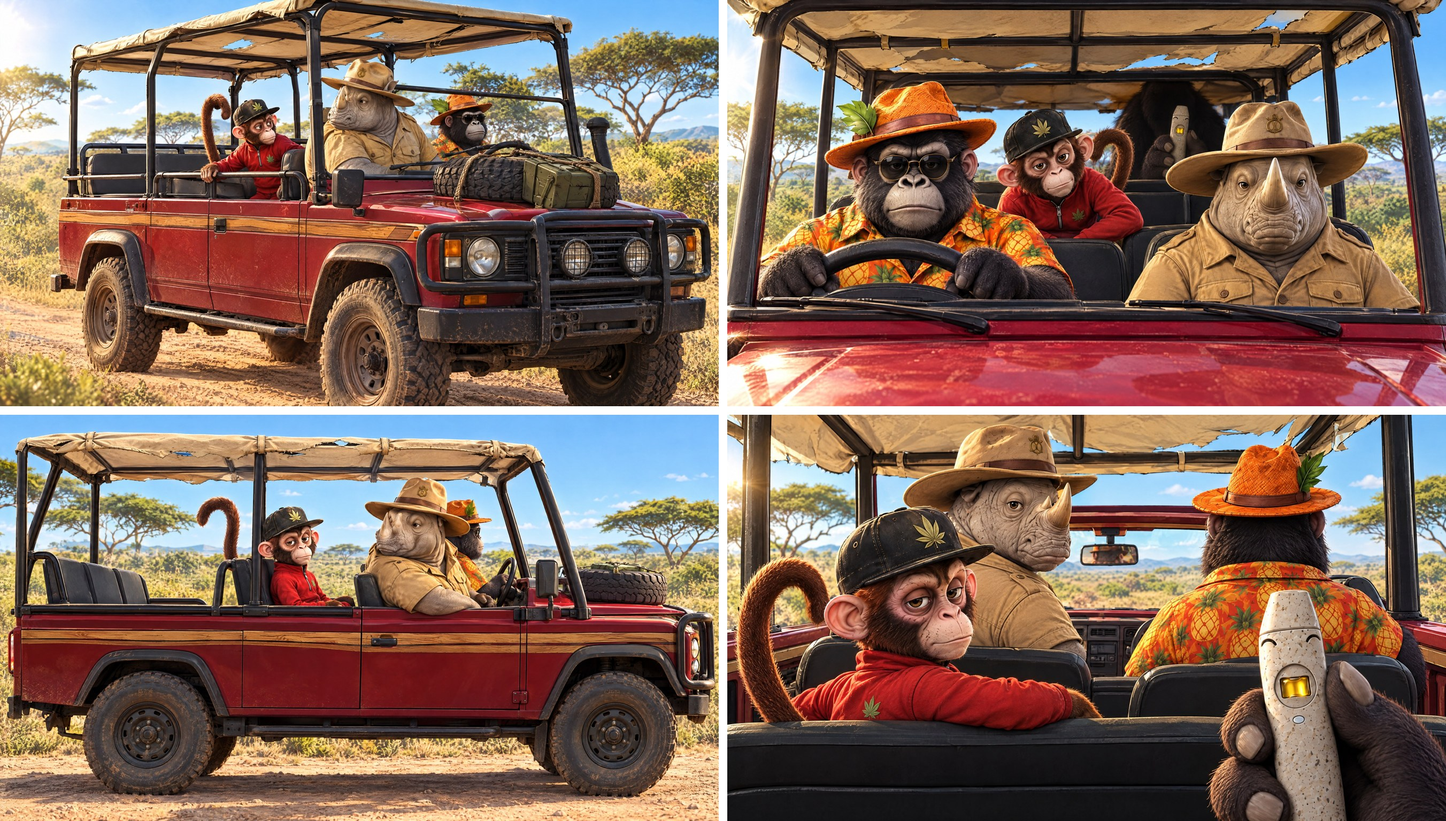
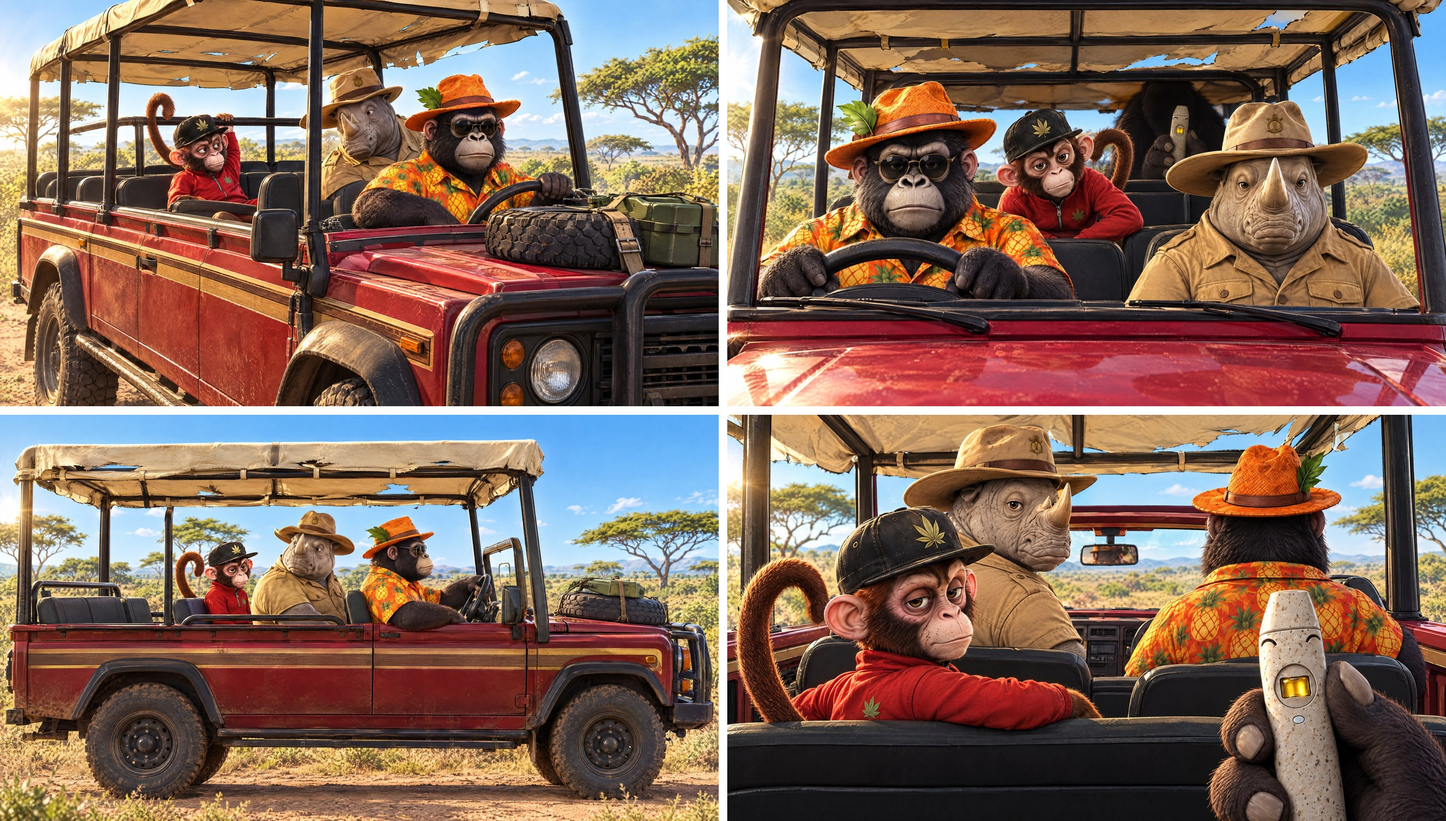
Previs outside views redone with the seat map locked: ape front right, rhino front left, monkey behind the rhino
Claude-Session: https://claude.ai/code/session_01WJPYEeQH8mr95hQ1P8BnMa

diff --git a/docs/02-scene-list.md b/docs/02-scene-list.md
@@ -5,6 +5,8 @@ Every number below is a creative decision and is live in `src/data/chapters.ts` 
 
 **Composition rule, all chapters.** Portrait is the master. Copy lives in the top band (14–30% of height). The CTA pill lives at the bottom safe area. The viewer's hand owns the bottom-right. The trail vanishes at 46% height in portrait, 52% in landscape. For 16:9, the copy moves to the left third and the hand shrinks; nothing is centre-cropped and no sighting is ever framed where a crop would lose the animal.
 
+**Seat map (locked 16 Sep).** Right-hand drive. Front right: ape, driving. Front left: rhino. Middle row left, directly behind the rhino: monkey. Back row right: the viewer. From a camera on the truck's right side (bonnet pointing right of frame) the ape is the nearest front seat; from the left side the rhino is nearest.
+
 **Time of day.** One drive, one day. Morning, sun up (0) → hard morning (0.12–0.42) → noon (0.5) → golden hour (0.68–0.82) → dusk (0.88) → night (1.0, camp, afterglow). Corrected 16 Sep: the drive starts in daylight. The pre-dawn open was never in the brief; the "night" in the copy is the viewer's night in at home. Every start frame must be lit for the time of day the take actually starts.
 
 ---
